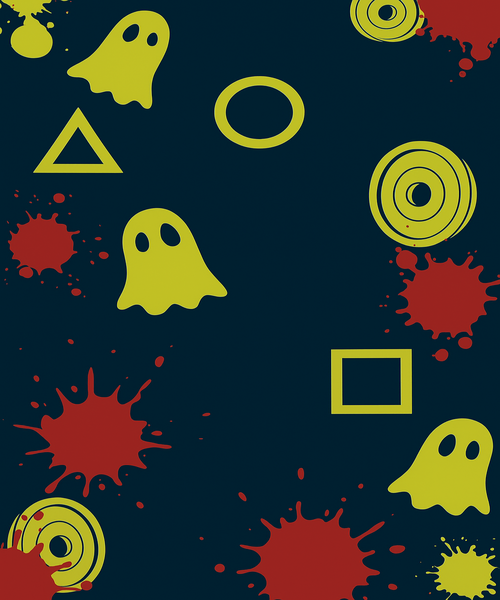
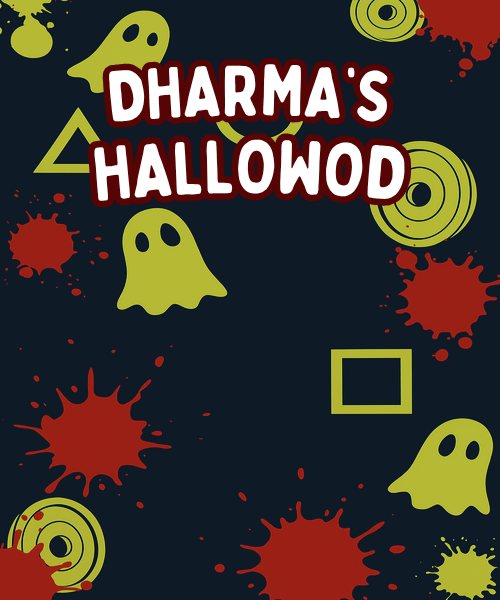
Estructura del programa Hecho

Changed region(s): [[0.15, 0.09, 0.84, 0.36]]

diff --git a/DharmasCode.py b/DharmasCode.py
@@ -1,33 +1,53 @@
 import tkinter as tk
 from PIL import Image, ImageTk
 
+def iniciar_programa():
+    # Cerrar la ventana de inicio
+    ventana.destroy()
+
+    # Crear nueva ventana del menú
+    menu = tk.Tk()
+    menu.title("👻 HALLOWOD MENÚ 👻")
+    menu.geometry("600x700")
+    menu.resizable(False, False)
+    menu.iconbitmap("assets/icono.ico")
+
+    # Fondo del menú
+    fondo_menu_img = Image.open("assets/fondo.png")
+    fondo_menu_photo = ImageTk.PhotoImage(fondo_menu_img)
+
+    fondo_label_menu = tk.Label(menu, image=fondo_menu_photo)
+    fondo_label_menu.place(x=0, y=0, relwidth=1, relheight=1)
+
+    # Mantener referencia de la imagen para evitar que se elimine de memoria
+    menu.fondo_ref = fondo_menu_photo
+
+    menu.mainloop()
+
+
 #ventana Principal
 ventana = tk.Tk()
 ventana.title("👻 HALLOWOD 👻")
 ventana.geometry("500x600")
+ventana.resizable(False, False)
+ventana.iconbitmap("assets/icono.ico")
 
 #fondo
 fondo_imagen = Image.open("assets/fondoRX.png")
 fondo_foto = ImageTk.PhotoImage(fondo_imagen)
 
-#titulo principal
-titulo_imagen = Image.open("assets/tituloRX.png").convert("RGBA")
-# Redimensionar la imagen del título
-titulo_imagen = titulo_imagen.resize((400, 100))
-titulo_foto = ImageTk.PhotoImage(titulo_imagen)
+fondo_label = tk.Label(ventana, image=fondo_foto)
+fondo_label.place(x=0, y=0, relwidth=1, relheight=1)
 
-# Etiqueta de fondo
-fondo_label = tk.Label(ventana, image = fondo_foto)
-fondo_label.place(x=0, y=0, relwidth=1, relheight=1)    
+# Botón
+boton_inicio_imagen = Image.open("assets/boton_iniciarRX.png")
+boton_inicio_foto = ImageTk.PhotoImage(boton_inicio_imagen)
 
-# Etiqueta de título
-titulo_label = tk.Label(ventana, image=titulo_foto)
-titulo_label.pack(pady=20)
+boton_inicio = tk.Button(ventana, image=boton_inicio_foto, command=iniciar_programa, bd=0, highlightthickness=0)
+boton_inicio.place(relx=0.5, rely=0.7, anchor=tk.CENTER, width=300, height=100)
 
+# Referencias para evitar que las imágenes se borren de memoria
+ventana.fondo_ref = fondo_foto
+ventana.boton_ref = boton_inicio_foto
 
-# Icono
-ventana.iconbitmap("assets/icono.ico")
-
-ventana.resizable(False, False)
-
-ventana.mainloop()  # Solo una vez
+ventana.mainloop()
